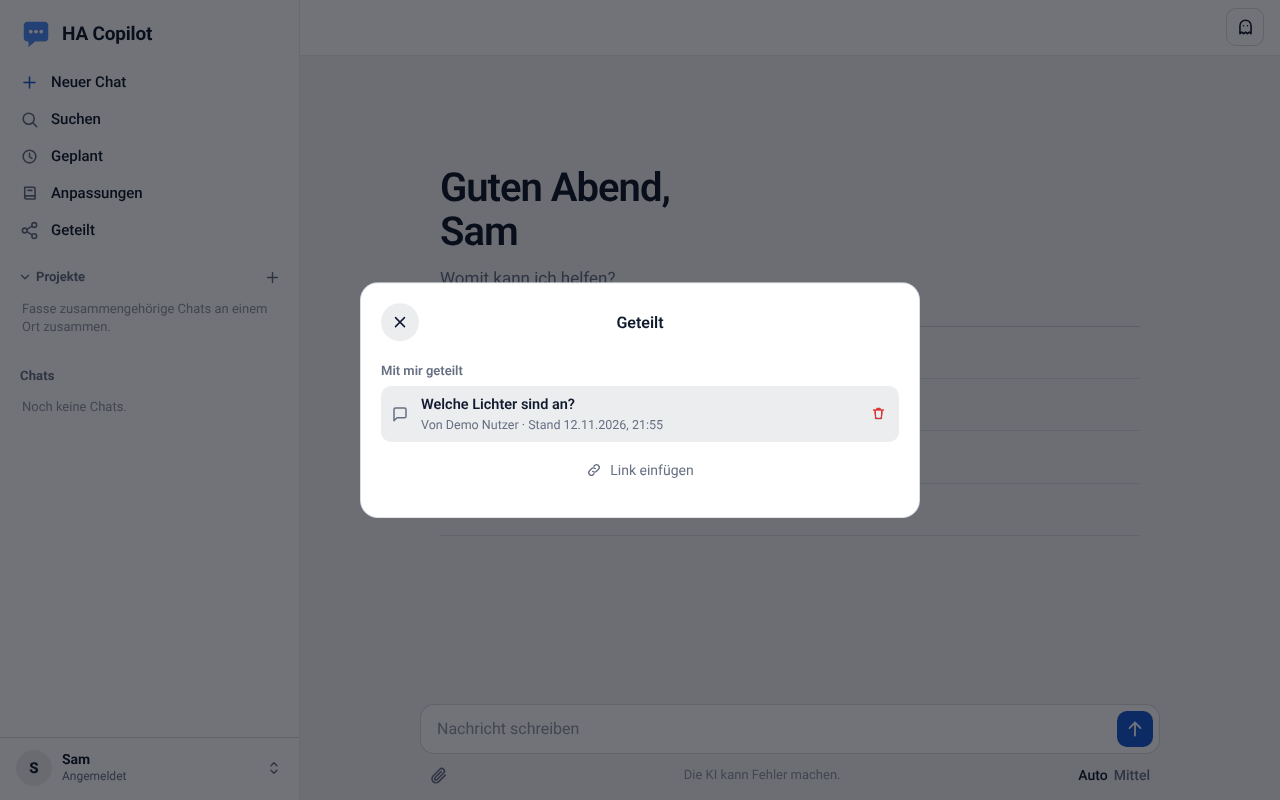
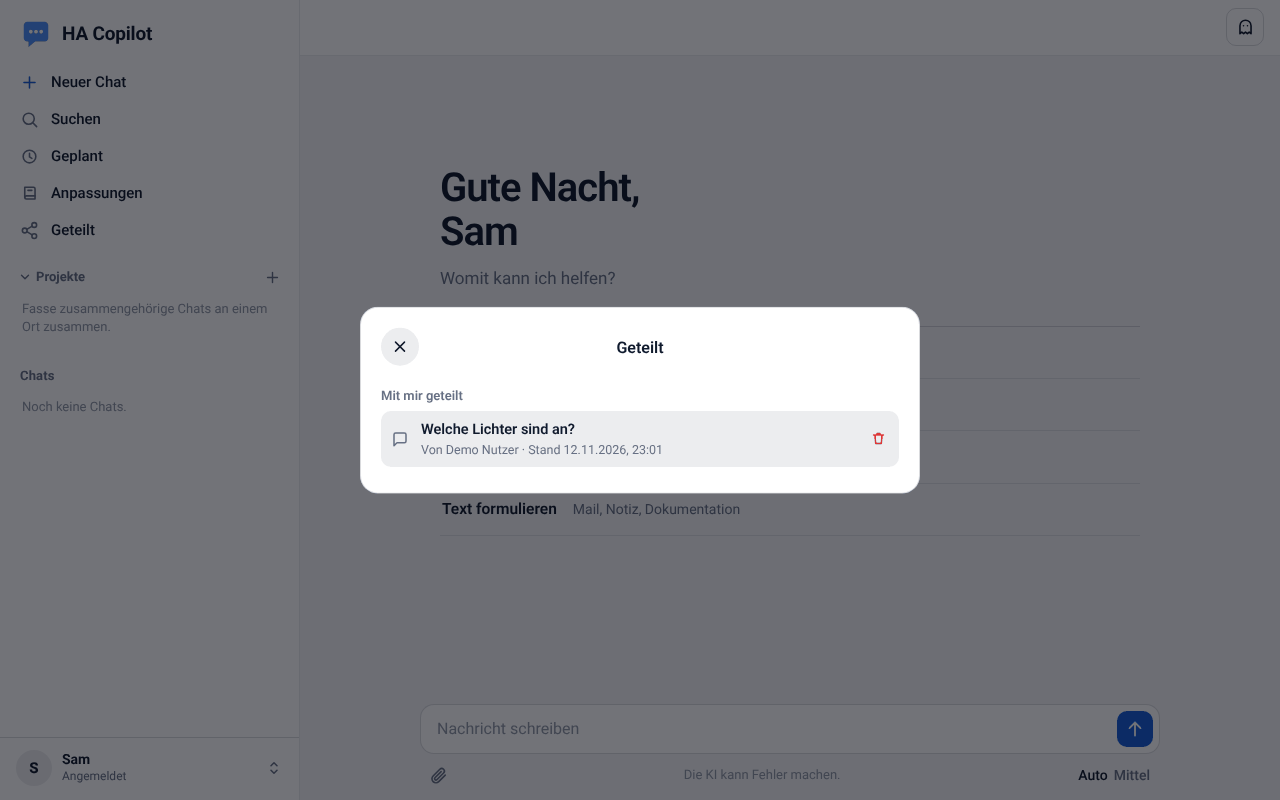
Geteilt ohne Einfügefeld, CodeQL-Meldungen behoben (0.57.1)
- "Link einfügen" (Knopf und Eingabefeld) in der Ansicht Geteilt entfernt
- skills.py: Skill-Ordner nur aus dem Katalog selbst bestimmen (Pfad-Alert)
- research.py: Muster mit Obergrenzen beziehungsweise ohne Rückverfolgung (ReDoS-Alerts)
- Tests, Changelog, "Das ist neu", Screenshot geteilte-chats.png

Claude-Session: https://claude.ai/code/session_012H4RFtPYg4WGjcVxpmDwqL

Changed region(s): [[0.2812, 0.4375, 0.7188, 0.6562], [0.2812, 0.3438, 0.7188, 0.4375], [0.4062, 0.2188, 0.5312, 0.25]]

diff --git a/copilot/app/static/app.js b/copilot/app/static/app.js
@@ -6558,23 +6558,6 @@ async function openSharedChats() {
           empty.append(icon("share"), node("p", "", tr("Es wurde nichts mit dir geteilt.")));
           nodes.unshift(empty);
         }
-        const paste = node("button", "shared-paste");
-        paste.type = "button";
-        paste.append(icon("link"), node("span", "", tr("Link einfügen")));
-        paste.addEventListener("click", async () => {
-          let text = "";
-          try { text = await navigator.clipboard.readText(); } catch { /* ohne Zugriff auf die Zwischenablage: Feld unten */ }
-          if (SHARE_CODE.test(text)) { await takeSharedLink(text); draw(); return; }
-          const field = node("input", "share-url shared-paste-field");
-          field.type = "text";
-          field.placeholder = tr("Link oder Code hier einfügen");
-          field.setAttribute("aria-label", tr("Link oder Code"));
-          paste.replaceWith(field);
-          field.focus();
-          field.addEventListener("keydown", async (event) => { if (event.key === "Enter") { event.preventDefault(); await takeSharedLink(field.value); draw(); } });
-          field.addEventListener("paste", () => setTimeout(async () => { if (SHARE_CODE.test(field.value)) { await takeSharedLink(field.value); draw(); } }, 0));
-        });
-        nodes.push(paste);
         body.replaceChildren(...nodes);
       };
       draw();
@@ -6583,8 +6566,6 @@ async function openSharedChats() {
   $("sheet-panel").classList.remove("shared-panel");
   if (picked) await picked();
 }
-
-const SHARE_CODE = /[A-Za-z0-9_-]{43}/;
 
 // Einen Link (oder nur den Code) öffnen: Der Chat erscheint danach unter „Geteilt“.
 async function takeSharedLink(text) {

diff --git a/copilot/app/static/style.css b/copilot/app/static/style.css
@@ -1414,10 +1414,6 @@ body.voice-open { overflow: hidden; }
 .shared-empty { display: flex; flex-direction: column; align-items: center; gap: 10px; padding: 30px 0 18px; color: var(--muted); text-align: center; }
 .shared-empty .icon { width: 38px; height: 38px; stroke-width: 1.5; }
 .shared-empty p { margin: 0; font-size: 15px; }
-.shared-paste { display: flex; align-items: center; gap: 8px; margin: 10px auto 2px; padding: 8px 14px; border-radius: var(--r-2); color: var(--text-2); font-size: 14px; transition: background .15s; }
-.shared-paste:hover { background: var(--chip); }
-.shared-paste .icon { width: 16px; height: 16px; }
-.shared-paste-field { margin-top: 12px; }
 /* Ein Fenster-Menü (Zahnrad, Gültigkeit) muss über dem Teilen-Fenster liegen */
 body:has(#sheet.show) .pop-scrim { z-index: 51; }
 body:has(#sheet.show) .popover { z-index: 52; }

diff --git a/copilot/app/research.py b/copilot/app/research.py
@@ -147,8 +147,10 @@ def parse_check(text: str, limit: int = MAX_FOLLOWUPS) -> tuple[str, list[str]]:
 
 # ------------------------------------------------------------------ Quellen
 
-_LINK = re.compile(r"\[([^\]]*)\]\((https?://[^)\s]+)\)")
-_URL = re.compile(r"https?://[^\s)>\]\"'<]+")
+# Mit Obergrenzen, damit lange Wiederholungen im Bericht die Suche nicht quadratisch verlangsamen.
+_LINK = re.compile(r"\[([^\]]{0,300})\]\((https?://[^)\s]{1,2000})\)")
+_URL = re.compile(r"https?://[^\s)>\]\"'<]{1,2000}")
+_BARE = re.compile(r"https?://\S{1,2000}")
 
 
 def normalize_url(url: str) -> str:
@@ -162,6 +164,18 @@ def urls_in(text: str) -> set[str]:
     return {normalize_url(u) for u in _URL.findall(text or "")}
 
 
+def _source_only(line: str) -> str | None:
+    """Die Adresse, wenn der Listenpunkt nur aus einer Quelle besteht (``- [Name](Adresse)`` oder ``- Adresse``), sonst ``None``."""
+    text = line.strip()
+    if not 3 <= len(text) <= 2400 or text[0] not in "-*" or not text[1].isspace():
+        return None
+    rest = text[1:].strip()
+    link = _LINK.fullmatch(rest)
+    if link:
+        return link.group(2)
+    return rest if _BARE.fullmatch(rest) else None
+
+
 def enforce_sources(report: str, known: set[str]) -> tuple[str, int]:
     """Alle Adressen im Bericht, die nicht in den Notizen vorkamen, entfernen (bei Links bleibt der Text). Gibt Bericht und Zahl der Entfernten zurück."""
     removed = 0
@@ -169,8 +183,7 @@ def enforce_sources(report: str, known: set[str]) -> tuple[str, int]:
     # Ein Listenpunkt, der nur aus einer unbelegten Quelle besteht, fällt ganz weg (sonst bliebe ein Name ohne Beleg stehen).
     kept: list[str] = []
     for line in report.splitlines():
-        only = re.fullmatch(r"\s*[-*]\s+(?:\[[^\]]*\]\((https?://[^)\s]+)\)|(https?://\S+))\s*", line)
-        address = (only.group(1) or only.group(2)) if only else None
+        address = _source_only(line)
         if address and normalize_url(address) not in known:
             removed += 1
             continue
@@ -199,8 +212,11 @@ def enforce_sources(report: str, known: set[str]) -> tuple[str, int]:
 
 
 def title_of(report: str, fallback: str) -> str:
-    match = re.search(r"^#\s+(.+?)\s*$", report, flags=re.M)
-    title = match.group(1) if match else fallback
+    title = fallback
+    for line in report.splitlines():  # erste Überschrift der Ebene 1 („# Titel“)
+        if line.startswith("#") and line[1:2] in (" ", "\t") and line[1:].strip():
+            title = line[1:].strip()
+            break
     title = re.sub(r"[`*_#\[\]]", "", title)
     return re.sub(r"\s+", " ", title).strip()[:80] or "Recherche"
 

diff --git a/copilot/tests/test_research.py b/copilot/tests/test_research.py
@@ -35,6 +35,23 @@ def test_parse_check_text_and_followups():
     assert rs.parse_check("[1,2]") == ("", [])
 
 
+def test_source_cleanup_stays_fast_on_hostile_text():
+    import time
+    start = time.monotonic()
+    rs.enforce_sources("[" * 60000 + "\n" + "[](http://" * 8000 + "\n- " + "[a" * 8000, set())
+    rs.title_of("# " + " " * 60000 + "x", "Recherche")
+    assert time.monotonic() - start < 3
+
+
+def test_source_only_bullets_and_titles():
+    assert rs._source_only("- [Name](https://a.de/x)") == "https://a.de/x"
+    assert rs._source_only("  * https://a.de/x)  ") == "https://a.de/x)"
+    assert rs._source_only("- Text mit [Name](https://a.de/x)") is None
+    assert rs._source_only("-https://a.de") is None
+    assert rs.title_of("Vorwort\n# Mein *Titel*  \n# Zweiter", "x") == "Mein Titel"
+    assert rs.title_of("## nur Unterüberschrift", "Ersatz") == "Ersatz"
+
+
 def test_enforce_sources_removes_unknown_addresses():
     known = rs.urls_in(f"- Fakt ({GOOD}).\n- Anderes ({OTHER})")
     report = (

diff --git a/copilot/app/skills.py b/copilot/app/skills.py
@@ -311,9 +311,9 @@ def catalog_entry(skill_id: str) -> dict | None:
 
 def catalog_files(skill_id: str) -> dict[str, str]:
     """Alle Dateien eines mitgelieferten Skills (Pfad -> Text) mit ``SKILL.md``; die Lizenz kommt als ``LICENSE.txt`` dazu."""
-    base = CATALOG_DIR.resolve()
-    root = (CATALOG_DIR / skill_id).resolve()
-    if root.parent != base:  # genau ein Ordner direkt im Katalog; keine Pfadteile, kein leerer Name, kein Katalog selbst
+    # Der Ordner kommt aus dem Katalog selbst (Namen vergleichen), nie aus dem übergebenen Namen: so entsteht kein Pfad aus Eingaben.
+    root = next((d for d in CATALOG_DIR.iterdir() if d.is_dir() and d.name == skill_id and not d.is_symlink()), None)
+    if root is None:  # kein Ordner direkt im Katalog (Pfadteile, leerer Name, Katalog selbst, "licenses" ohne Skill)
         return {}
     files = {p.relative_to(root).as_posix(): p.read_text(encoding="utf-8") for p in sorted(root.rglob("*")) if p.is_file()}
     entry = catalog_entry(skill_id)

diff --git a/copilot/tests/test_skills.py b/copilot/tests/test_skills.py
@@ -636,3 +636,4 @@ def test_github_limits_and_redirects(store, api, monkeypatch):
 def test_catalog_files_stay_inside_the_catalog_folder():
     assert sk.catalog_files("") == {} and sk.catalog_files(".") == {} and sk.catalog_files("frontend-design/..") == {} and sk.catalog_files("../") == {} and sk.catalog_files("../../etc") == {} and sk.catalog_files("/etc") == {}
     assert "SKILL.md" in sk.catalog_files("frontend-design")
+    assert sk.catalog_files("licenses/x") == {} and sk.catalog_files("frontend-design/SKILL.md") == {}

diff --git a/copilot/CHANGELOG.md b/copilot/CHANGELOG.md
@@ -5,9 +5,11 @@ Teilen-Fenster: unterer Bereich aufgeräumt. Keine Änderung an Daten oder Schni
 - **Kopieren im Linkfeld.** Der Knopf **Link kopieren** und das Zahnrad entfallen. Rechts im Linkfeld sitzt ein Zwischenablage-Symbol (`.share-copy`, wird kurz zum Haken); ein Klick auf den Link kopiert weiterhin, beides meldet „Link wurde kopiert.“ im Feld. Die Auswahl im Feld wird danach aufgehoben, damit der Text nicht durch die grüne Meldung scheint.
 - **Aktualisieren** steht als eigener Knopf neben der Zeile „Stand …“ (`POST /api/chats/{id}/share/refresh`, wie bisher), nicht mehr im Zahnrad-Menü.
 - **Teilen beenden** ist der feste, rote Knopf unten im Fenster (ersetzt „Link kopieren“). Er fragt einmal nach („Wirklich beenden?“, fällt nach 4 Sekunden zurück). Ist nichts geteilt, steht dort **Fertig**.
+- **„Link einfügen“ entfällt.** In **Geteilt** gibt es weder den Knopf noch das Eingabefeld für Link oder Code mehr: Wer einen Link bekommt, öffnet ihn (Klick oder Adresszeile), der Chat erscheint dann unter **Geteilt**. Die Schnittstelle `POST /api/shared/open` bleibt (sie nimmt den Code aus `?share=`).
 - **Mehr Abstand** zwischen Gültigkeit und **Abrufe** beziehungsweise **Geöffnet von** (`.share-sec`, 20 px), ebenso vor der Zeile des Besitzers.
 - **Kein seitliches Scrollen** im scrollenden Mittelteil (`.share-refresh` ragte 4 px über den Rand).
-- **Texte:** neu „Aktualisieren“ und „Wirklich beenden?“ (`en-ui.json`); „Einstellungen zum Teilen“ und „Gültigkeit des Links …“ entfallen.
+- **Sicherheit (CodeQL-Meldungen).** `catalog_files` (`skills.py`) bildet den Ordner eines mitgelieferten Skills nur noch aus dem Katalog selbst (Namensvergleich über die Ordner, keine Symlinks) statt aus dem übergebenen Namen. Die Muster zum Prüfen der Quellen im Recherchebericht (`research.py`: `_LINK`, `_URL`, Listenpunkte nur mit Quelle, Titel) haben Obergrenzen beziehungsweise laufen ohne Rückverfolgung (`_source_only`, `title_of`), damit sehr lange, absichtlich verschachtelte Texte sie nicht quadratisch verlangsamen. Ohne Verhaltensänderung bei normalen Berichten. Neu: `test_source_cleanup_stays_fast_on_hostile_text`, `test_source_only_bullets_and_titles`.
+- **Texte:** neu „Aktualisieren“ und „Wirklich beenden?“ (`en-ui.json`); „Einstellungen zum Teilen“, „Gültigkeit des Links …“, „Link einfügen“, „Link oder Code“ und „Link oder Code hier einfügen“ entfallen.
 - **Prüfung:** Browserprüfung (Playwright) auf Computer und Handy, hell und dunkel: Kopieren, Gültigkeit, Aktualisieren, Beenden mit Rückfrage, kein Überlauf. Screenshot `chat-teilen.png` neu.
 
 ## 0.57.0
